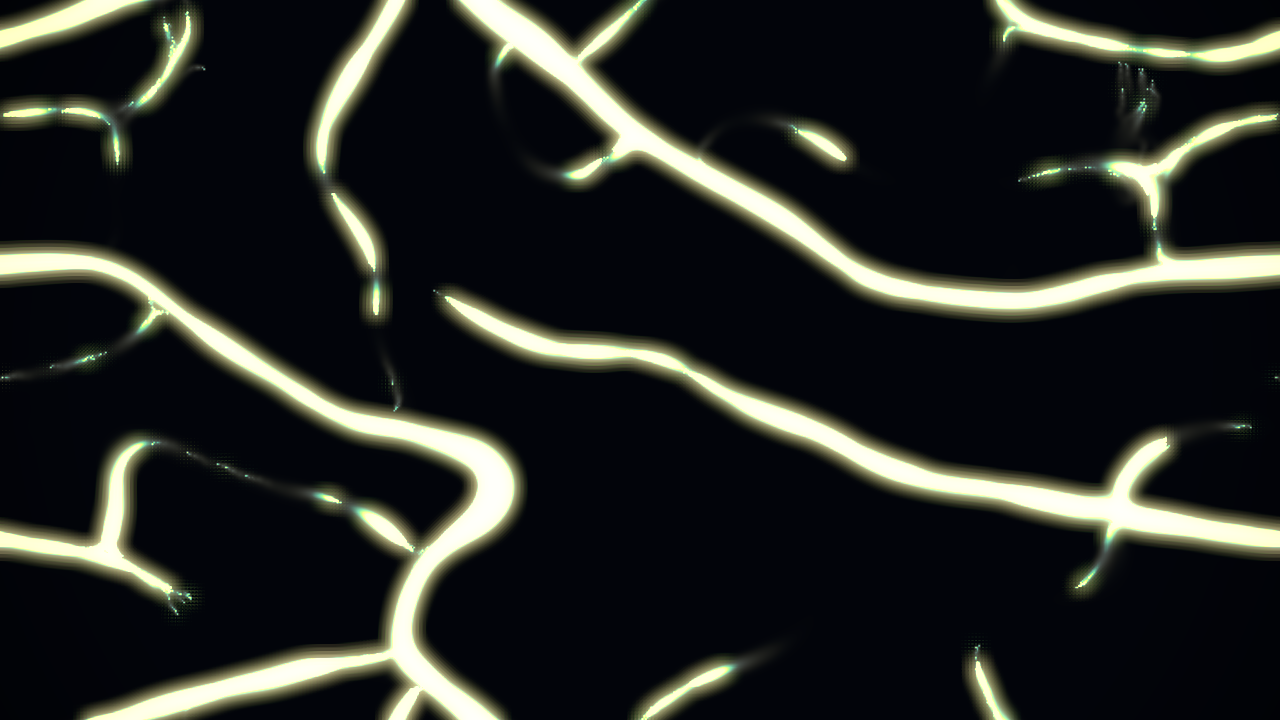
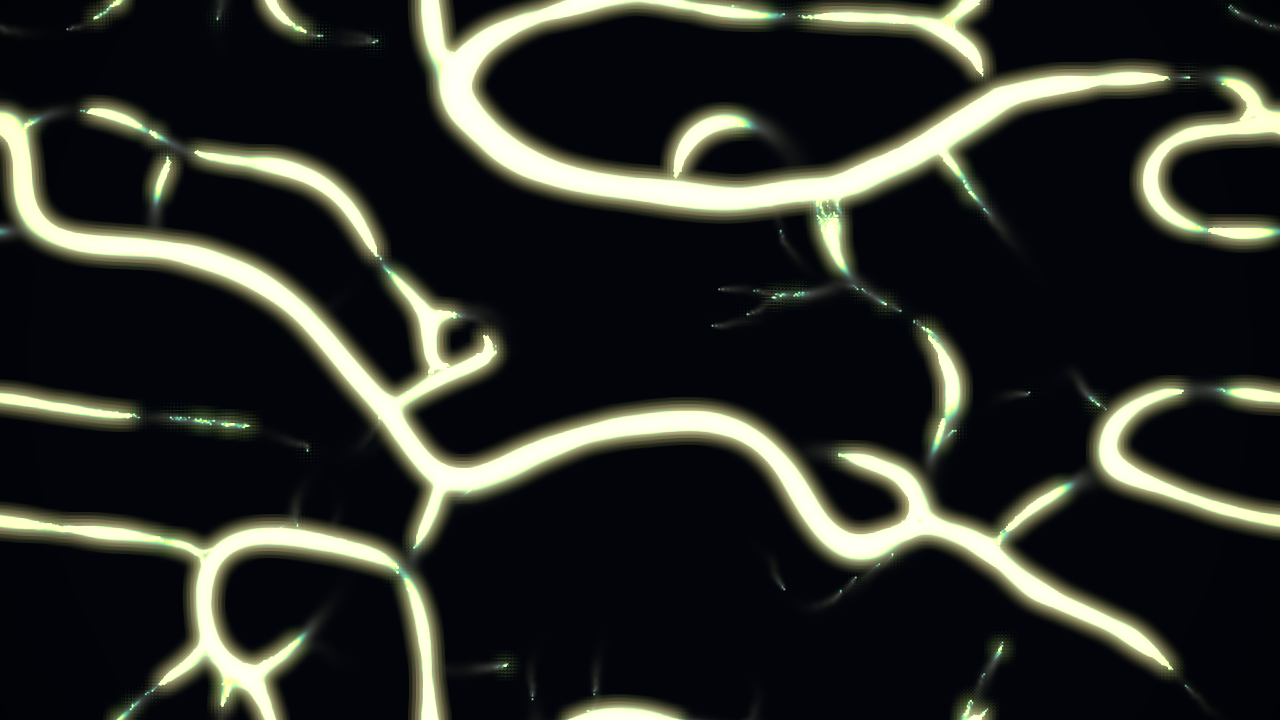
chore(content): address PR #27 review nits (physarum)
- scene: consume the tunable/meterable `bass` rack channel via ctx.input("bass")
  (it already carries lag) instead of raw ctx.audio.band("bass")+lagSignal.
- docs: correct the "≤150 lines" claim in DECISIONS + feature-request (it's ~231).
- regenerate both showcase stills against current code; WebGPU still is the
  isotropic production look (the WebGL2 fallback still is mildly anisotropic —
  documented backend divergence, non-blocking).

diff --git a/content/modules/sources/physarum.ts b/content/modules/sources/physarum.ts
@@ -12,7 +12,9 @@ import {
 const DEPOSIT_CAM = new OrthographicCamera(-1, 1, 1, -1, 0, 1);
 
 /** Trail field grid — fixed & modest (HalfFloat state, not output res). Toroidal.
- *  16:9 and high enough that veins read thin against a 1080p frame. */
+ *  16:9 and high enough that veins read thin against a 1080p frame. (sensorDist/
+ *  speed are in texels; the slight non-square bias is acceptable — on the WebGPU
+ *  production backend the network reads cleanly isotropic.) */
 const TRAIL_W = 768;
 const TRAIL_H = 432;
 

diff --git a/content/scenes/slime-veins.scene.ts b/content/scenes/slime-veins.scene.ts
@@ -1,4 +1,4 @@
-import { defineScene, lagSignal, Signal, texNode } from "@loom/runtime";
+import { defineScene, Signal, texNode } from "@loom/runtime";
 import { vec4 } from "three/tsl";
 import { pickPalette } from "../palettes";
 import { bloom } from "../modules/effects/bloom";
@@ -45,7 +45,7 @@ export default defineScene({
     ]);
 
     const kick = ctx.input("kick");
-    const bass = lagSignal(ctx.audio.band("bass"), 0.12);
+    const bass = ctx.input("bass"); // rack channel (lagged bass) — tunable/meterable from the Console
 
     // Kick flares the sensor splay open then it re-knits; bass swells speed.
     const splayBase = sensorAngle.signal();

diff --git a/content/CATALOG.md b/content/CATALOG.md
@@ -126,8 +126,8 @@
 - **pulse** — Kick-reactive feedback rings with a slowly drifting palette. params: punch, trail, drift _[audio-reactive, feedback, demo]_ ⚡inputs: kick, bass
 - **ripple-pool** — A wave-simulation pool: kicks drop splashes whose wavefronts ring out and interfere, ramped through the palette. params: wave.speed, wave.calm, wave.splash, wave.flow, color.depth, color.foam, finish.bloom, finish.glow, finish.vignette _[wave, ripples, water, simulation, audio-reactive, showcase]_ ⚡inputs: kick
 - **rutt-etra** — A vertex terrain breathing with the bass, drawn as glowing scan points under a slow orbit — the Rutt-Etra look, three generations later. params: terrain.height, terrain.surge, terrain.scale, terrain.flow, points.size, cam.speed, cam.height _[3d, terrain, points, rutt-etra, audio-reactive, showcase]_ ⚡inputs: bass
-- **slime-veins** — A living Physarum colony braids glowing vein/neuron networks — kick flares the sensors, bass breathes the swarm. params: colony.agents, colony.speed, colony.breathe, sense.reach, sense.splay, sense.flare, colony.turn, trail.deposit, trail.punch, trail.persist, color.spread, finish.bloom, finish.glow, finish.vignette _[physarum, slime-mold, agents, organic, generative, audio-reactive, showcase]_ ⚡inputs: kick
-- **soft-serve** — A vanilla soft-serve swirl forever spiraling up in a waffle cone, sprinkles tossed in from all angles that land and stick, over an ice-cream backdrop. params: cream.thickness, cream.coils, cream.flow, cream.hook, cream.ridge, cream.gloss, cream.stream, cream.wobble, cone.width, cone.waffle, cone.mouth, sprinkles.amount, sprinkles.burst, sprinkles.size, sprinkles.cadence, bg.tone, finish.bloom, finish.vignette _[ice-cream, vanilla, swirl, particles, audio-reactive]_ ⚡inputs: kick, bass
+- **slime-veins** — A living Physarum colony braids glowing vein/neuron networks — kick flares the sensors, bass breathes the swarm. params: colony.agents, colony.speed, colony.breathe, sense.reach, sense.splay, sense.flare, colony.turn, trail.deposit, trail.punch, trail.persist, color.spread, finish.bloom, finish.glow, finish.vignette _[physarum, slime-mold, agents, organic, generative, audio-reactive, showcase]_ ⚡inputs: kick, bass
+- **soft-serve** **(live)** — A vanilla soft-serve swirl forever spiraling up in a waffle cone, sprinkles tossed in from all angles that land and stick, over an ice-cream backdrop. params: cream.thickness, cream.coils, cream.flow, cream.hook, cream.ridge, cream.gloss, cream.stream, cream.wobble, cone.width, cone.waffle, cone.mouth, sprinkles.amount, sprinkles.burst, sprinkles.size, sprinkles.cadence, bg.tone, finish.bloom, finish.vignette _[ice-cream, vanilla, swirl, particles, audio-reactive]_ ⚡inputs: kick, bass
 - **spring-rave** — A ring of laser beams on spring physics — every kick bounces and rings instead of easing, hats lift the glow, trails smear the orbit. params: bounce.stiffness, bounce.damping, bounce.amount, beams.shimmer, cam.speed, trail _[3d, beams, spring, physics, audio-reactive, showcase]_ ⚡inputs: kick, hats
 - **star-anise** — A slow, dark spice galaxy: star-anise pods tumble and drift through a cinnamon-dust haze while clove specks twinkle — bass swells the haze, the kick flares the pods. An ambient palette-cleanser. params: haze.brightness, haze.scale, haze.speed, haze.swell, pods.size, pods.spin, pods.drift, pods.flare, specks.count, specks.size, specks.glow, bloom.level, bloom.intensity, bloom.radius, vignette _[star-anise, spice, pho, ambient, organic, audio-reactive]_ ⚡inputs: kick, bass, energy
 - **static-haunt** — Broken-broadcast haunting: oscillator bars torn by voronoi, crushed to poster steps and shredded by kick-blasted glitch tears with negative strobes — hats jitter the chroma split while frame echoes ghost behind. params: tear.amount, tear.surge, bars.freq, crush.steps, wreck.amount, wreck.burst, jitter.split, ghost.amount, ghost.delay, strobe.flash _[glitch, strobe, echo, retro, audio-reactive]_ ⚡inputs: kick, hats

diff --git a/DECISIONS.md b/DECISIONS.md
@@ -1629,7 +1629,8 @@ surfaces lacked (what build/swap/freeze/perf event led to a number).
   `textureLoad(agentTex, vertexIndex→texel)`. No vertex-texture-fetch guesswork,
   no shared `particleState` primitive (deferred — `simBuffer`'s per-pixel step
   can't read agent positions for the deposit, so physarum owns its 4 passes
-  inline). Seeded in-shader (hash, no Math.random) + frame-clocked → fixture-safe.
+  inline — ~231 lines, over the ~150 soft budget, mostly backend-gotcha comments
+  + per-opt JSDoc). Seeded in-shader (hash, no Math.random) + frame-clocked → fixture-safe.
 - **Real-WebGPU verification caught two backend bugs the WebGL2 fallback hid:**
   (1) the deposit pass camera was a bare `Camera` — WebGPU's `_renderScene` calls
   `updateProjectionMatrix` which only exists on `OrthographicCamera` (froze via

diff --git a/feature-requests/particle-agent-systems.md b/feature-requests/particle-agent-systems.md
@@ -80,7 +80,8 @@ open + re-knits on the kick) and the deposit flash; bass breathes the agent
 speed. Frame-clocked + deterministically seeded (in-shader hash, no
 Math.random) → fixture-replay-safe. Scene `slime-veins`. NOTE: did NOT reuse
 `simBuffer` — its per-pixel `step` can't read agent positions for the deposit,
-so physarum owns its four passes inline (still ≤150 lines).
+so physarum owns its four passes inline (~231 lines — over the ~150 soft budget,
+mostly backend-gotcha comments + per-opt JSDoc).
 
 ## Why later / scope
 